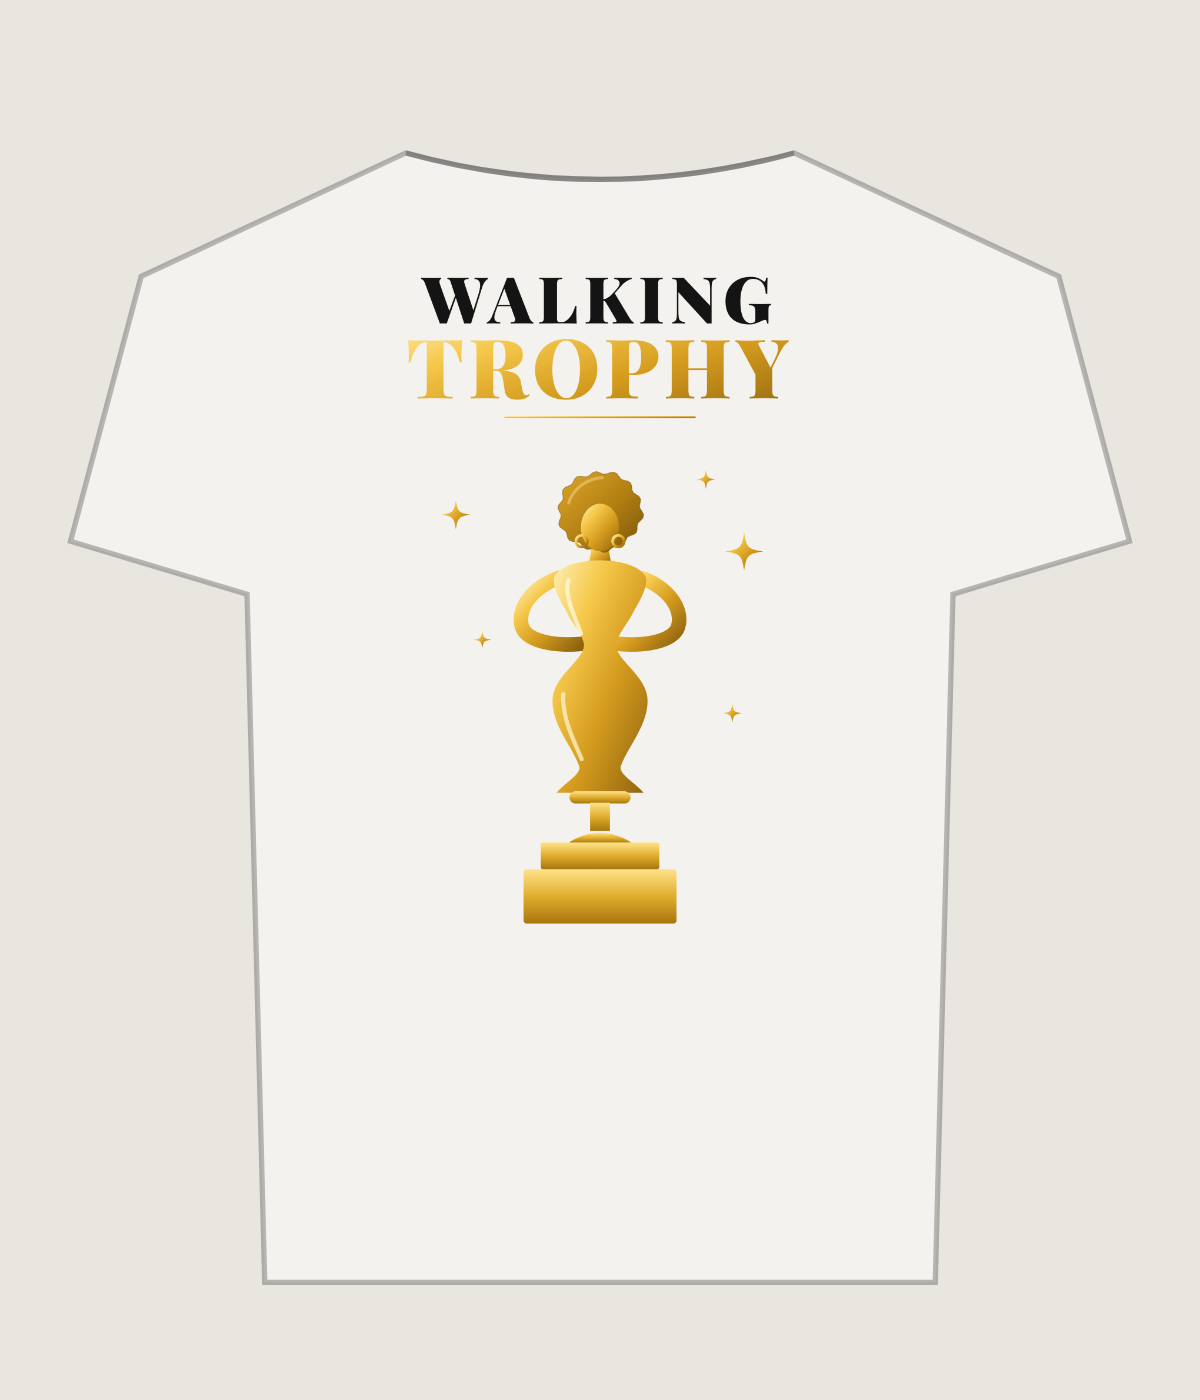
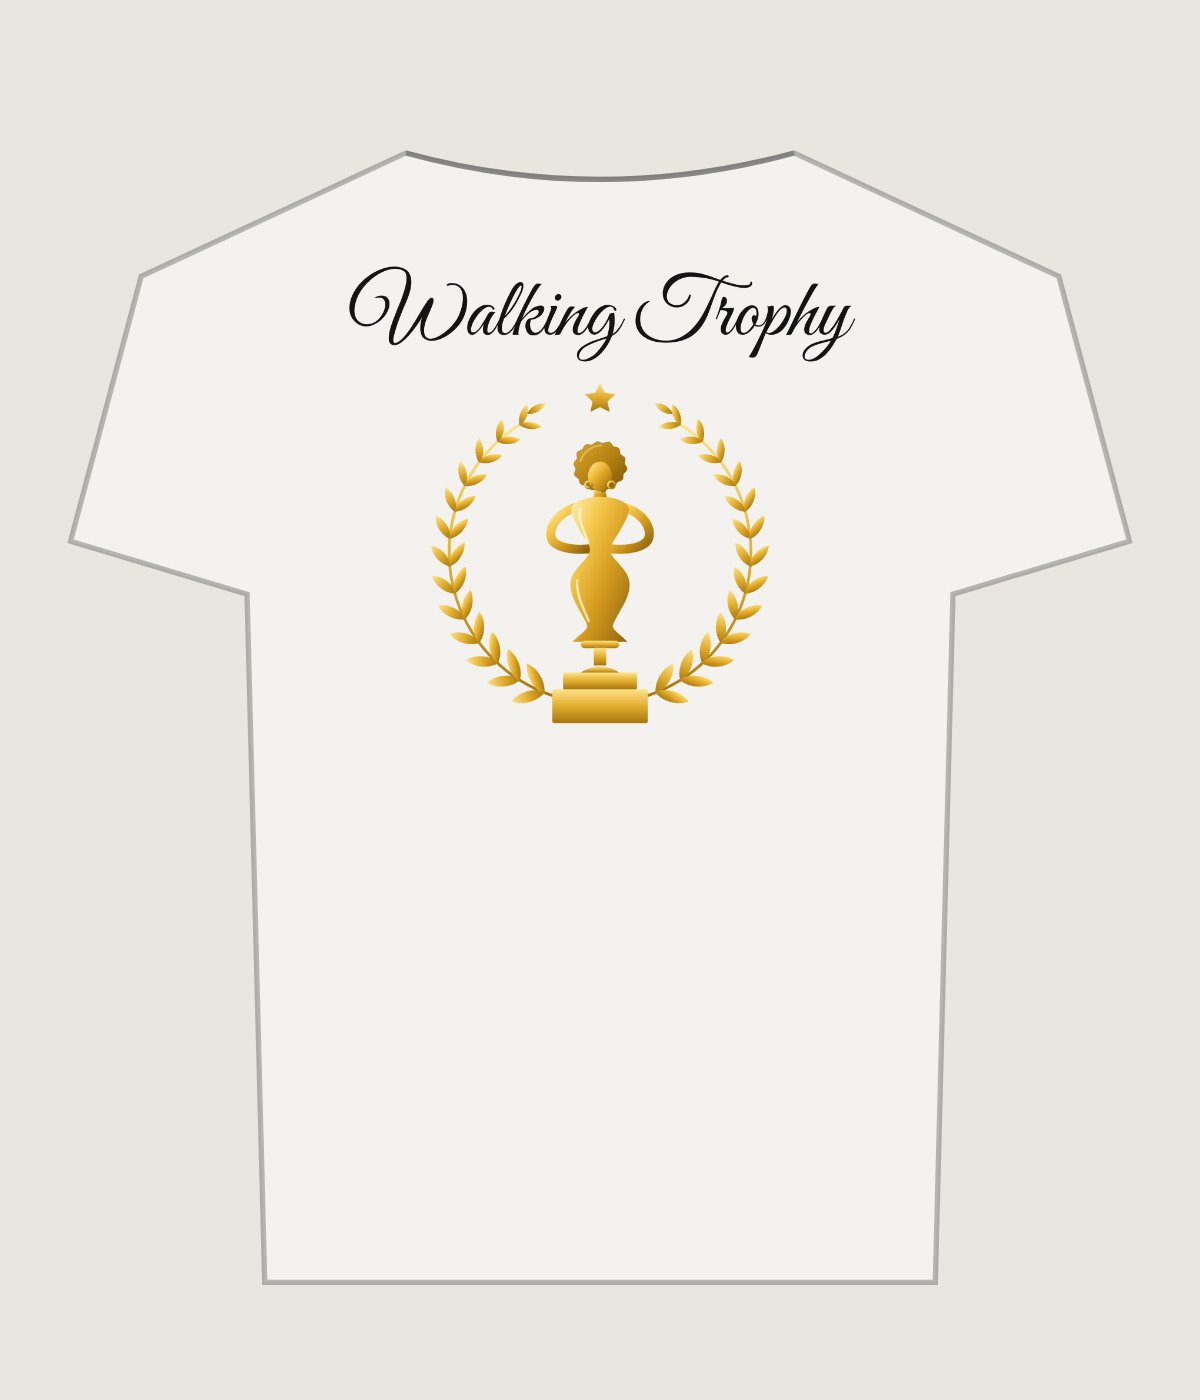
Walking Trophy back: script + laurel crest design
Claude-Session: https://claude.ai/code/session_01Mt1Tg1SJuTeW2M8JbNNqgf

Changed region(s): [[0.2775, 0.1843, 0.7092, 0.6757]]

diff --git a/walking-trophy-tee/tools/build-design.js b/walking-trophy-tee/tools/build-design.js
@@ -67,13 +67,17 @@ function laurel(cx, cy, r, leaf = 44) {
   }
   return stems + leaves;
 }
-// BACK: 12" x 16" print area @300dpi = 3600 x 4800
+// BACK: 12" x 16" @300dpi - the crest: script name on top, laurel wreath around the trophy beneath it.
+// Drawn in a 1200 x 1200 crest box, scaled 3x to fill the 12" width, aligned to the top of the print area.
+const crest = (ink, plaqueInk) => `
+  <text x="600" y="252" text-anchor="middle" font-family="GV" font-size="190" fill="${ink}">Walking Trophy</text>
+  <g transform="translate(600 362) scale(0.9) translate(-600 -44)">
+   ${laurel(600, 470, 380)}
+   <g transform="translate(600 150) scale(0.6) translate(-500 0)">${trophy(plaqueInk, true)}</g>
+   <path d="M600 44 L612 68 L638 72 L619 90 L624 116 L600 104 L576 116 L581 90 L562 72 L588 68 Z" fill="url(#goldV)"/>
+  </g>`;
 const back = (ink, plaqueInk) => `<svg id="s" xmlns="http://www.w3.org/2000/svg" viewBox="0 0 3600 4800"><defs>${GOLD}</defs>
-  <text x="1800" y="500" text-anchor="middle" font-family="PF" font-weight="900" font-size="440" letter-spacing="40" fill="${ink}">WALKING</text>
-  <text x="1800" y="1010" text-anchor="middle" font-family="PF" font-weight="900" font-size="560" letter-spacing="30" fill="url(#gold)">TROPHY</text>
-  <rect x="1150" y="1130" width="1300" height="14" fill="url(#gold)"/>
-  <g transform="translate(500 1330) scale(2.6)">${trophy(plaqueInk)}</g>
-  ${sparkle(820, 1800, 2.0)}${sparkle(2780, 2050, 2.6)}${sparkle(2520, 1560, 1.3)}${sparkle(1000, 2650, 1.2)}${sparkle(2700, 3150, 1.3)}
+  <g transform="translate(0 -180) scale(3)">${crest(ink, plaqueInk)}</g>
 </svg>`;
 // FRONT centre chest: 12" x 4" @300dpi - just the words, centred
 const front = (ink) => `<svg id="s" xmlns="http://www.w3.org/2000/svg" viewBox="0 0 3600 1200">

diff --git a/walking-trophy-tee/README.md b/walking-trophy-tee/README.md
@@ -3,23 +3,20 @@
 Blank: Printful women's relaxed t-shirt, Bella+Canvas 6400. Printing: DTG (direct-to-garment), so the gold gradients print as they are.
 
 ## Design
-**Back:**
-- **Headline:** "WALKING" in white (black on light shirts), and "TROPHY" in gold, in bold Playfair Display capitals, with a gold underline.
-- **Trophy:** an all-gold trophy shaped like a woman:
-  - Curly afro and hoop earrings.
-  - Both hands on her hips, so her arms form the trophy's two handle loops.
-  - An hourglass figure that becomes the cup, and a gown that narrows into the stem.
-- **Base:** a plain two-tier gold base, with no plaque or text, and gold sparkles around her.
+**Back:** the Walking Trophy crest, about 11.5" wide × 10.4" tall across the upper back:
+- *Walking Trophy* in an elegant script on top (white on dark shirts, black on light shirts).
+- Underneath, a gold laurel wreath with a small star at the top.
+- Inside the wreath, an all-gold trophy shaped like a woman, with a curly afro, hoop earrings and both hands on her hips (her arms form the trophy's handles), on a plain gold base.
 
 **Front (centre chest):** just the words *Already Won* in an elegant script, centred across the chest, about 10" wide. White on dark shirts, black on light shirts.
 
-Fonts: Playfair Display and Great Vibes, both SIL Open Font License, free for commercial use.
+Font: Great Vibes (SIL Open Font License, free for commercial use).
 
 ## Files
 ### Print files (`files/`, transparent PNG, 300 DPI)
 | File | Placement | Size |
 |---|---|---|
-| `PRINTFUL-BACK_dark-shirts.png` | Back, for Black and other dark colours | 3600 × 4800 px (12" × 16") |
+| `PRINTFUL-BACK_dark-shirts.png` | Back, for Black and other dark colours | 3600 × 4800 px (12" × 16"; the design is 11.5" × 10.4", aligned to the top) |
 | `PRINTFUL-BACK_light-shirts.png` | Back, for White and other light colours | 3600 × 4800 px |
 | `PRINTFUL-FRONT-center-chest_dark-shirts.png` | Front, centre chest | 3600 × 1200 px (12" × 4"; the text is about 10.3" × 2.4") |
 | `PRINTFUL-FRONT-center-chest_light-shirts.png` | Front, centre chest | 3600 × 1200 px |
@@ -41,7 +38,7 @@ Fonts: Playfair Display and Great Vibes, both SIL Open Font License, free for co
 **Title:** Walking Trophy Shirt, Already Won Tee, Women's Relaxed Tee, Gold Trophy Graphic, Confidence Shirt, Self Love Gift, Black Woman Empowerment Tee
 
 **Description:**
-She doesn't need an award, she *is* the award. This Walking Trophy tee has a gold trophy on the back shaped like a woman, with her afro, curves and hands on her hips. On the front, centred across the chest: *Already Won*.
+She doesn't need an award, she *is* the award. This Walking Trophy tee has a gold laurel crest on the back, with a trophy shaped like a woman: her afro, curves and hands on her hips. On the front, centred across the chest: *Already Won*.
 - Bella+Canvas 6400 women's relaxed fit, soft 100% cotton (heathers are cotton blend)
 - Printed front and back
 - Made to order
